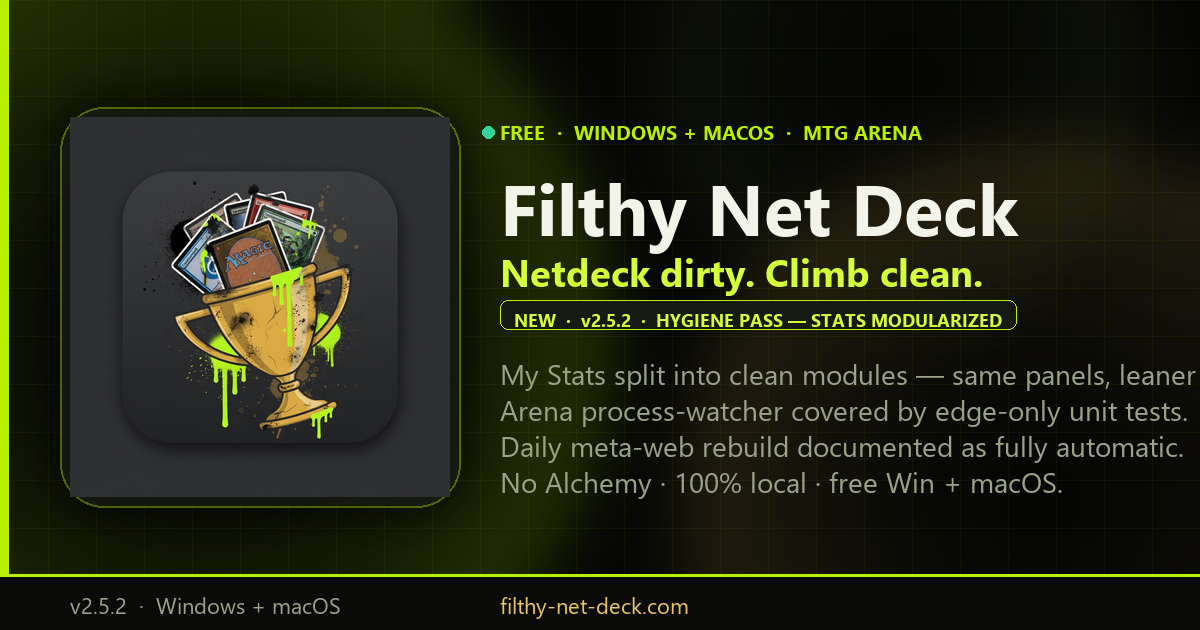
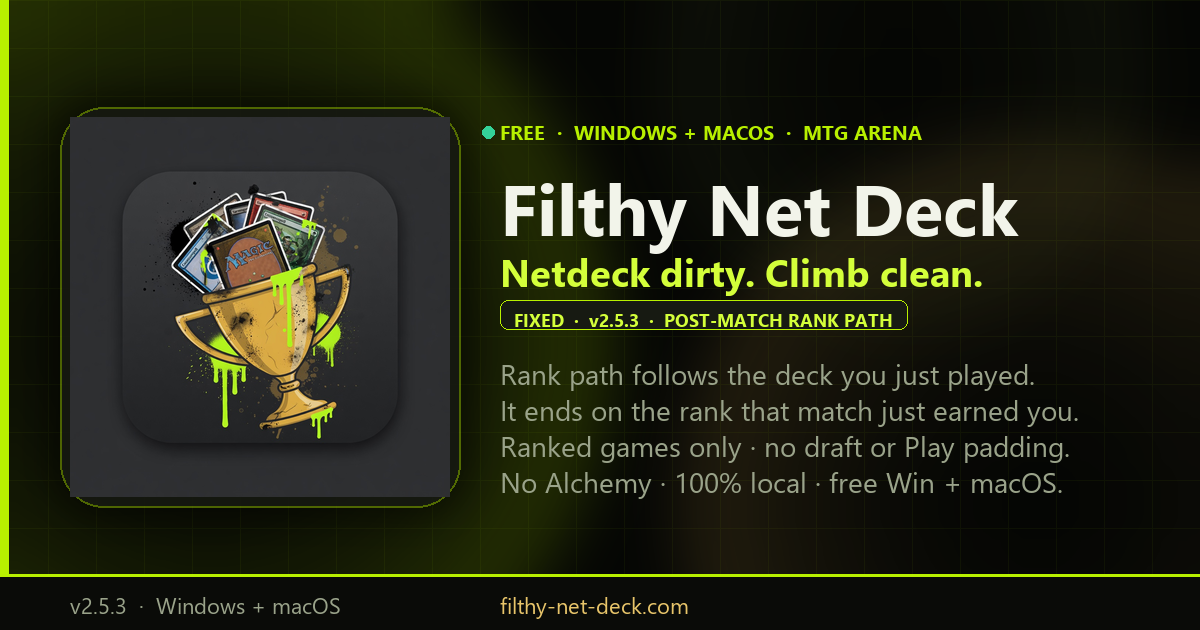
chore(site): OG card for v2.5.3
Badge + feature lines rewritten for the rank-path fix (the generator rewrites
these wholesale each release). Lines kept under the right margin — the first
pass overflowed the card at 60+ characters.

Changed region(s): [[0.4008, 0.573, 1.0, 0.754], [0.4317, 0.4825, 0.8325, 0.5429]]

diff --git a/website/assets/_gen_og.py b/website/assets/_gen_og.py
@@ -130,7 +130,7 @@ def main() -> None:
     draw.text((tx, ty + 128), "Netdeck dirty. Climb clean.", font=tag_font, fill=ACID_BRIGHT)
 
     # Feature callout badge — bump with each marketed release
-    badge_text = f"NEW  {mid}  v2.5.2  {mid}  HYGIENE PASS — STATS MODULARIZED"
+    badge_text = f"FIXED  {mid}  v2.5.3  {mid}  POST-MATCH RANK PATH"
     badge_pad_x, badge_pad_y = 14, 8
     bb = draw.textbbox((0, 0), badge_text, font=badge_font)
     bw, bh = bb[2] - bb[0], bb[3] - bb[1]
@@ -145,9 +145,9 @@ def main() -> None:
     draw.text((bx + badge_pad_x, by + badge_pad_y - 1), badge_text, font=badge_font, fill=ACID_BRIGHT)
 
     lines = [
-        "My Stats split into clean modules — same panels, leaner code.",
-        "Arena process-watcher covered by edge-only unit tests.",
-        "Daily meta-web rebuild documented as fully automatic.",
+        "Rank path follows the deck you just played.",
+        "It ends on the rank that match just earned you.",
+        f"Ranked games only {mid} no draft or Play padding.",
         f"No Alchemy {mid} 100% local {mid} free Win + macOS.",
     ]
     dy = ty + 236
@@ -158,7 +158,7 @@ def main() -> None:
     # Bottom bar
     draw.rectangle([0, H - 56, W, H], fill=(10, 11, 8, 245))
     draw.rectangle([0, H - 56, W, H - 54], fill=(*ACID, 200))
-    draw.text((70, H - 40), "v2.5.2  ·  Windows + macOS", font=small_font, fill=MUTED)
+    draw.text((70, H - 40), "v2.5.3  ·  Windows + macOS", font=small_font, fill=MUTED)
     draw.text((tx, H - 40), "filthy-net-deck.com", font=small_font, fill=GOLD_LIGHT)
 
     final = img.convert("RGB")
